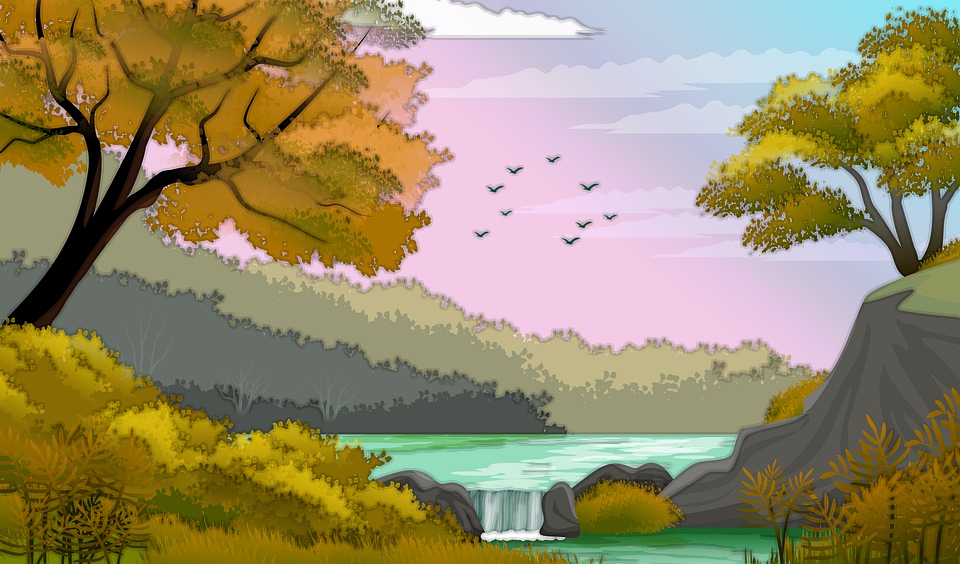
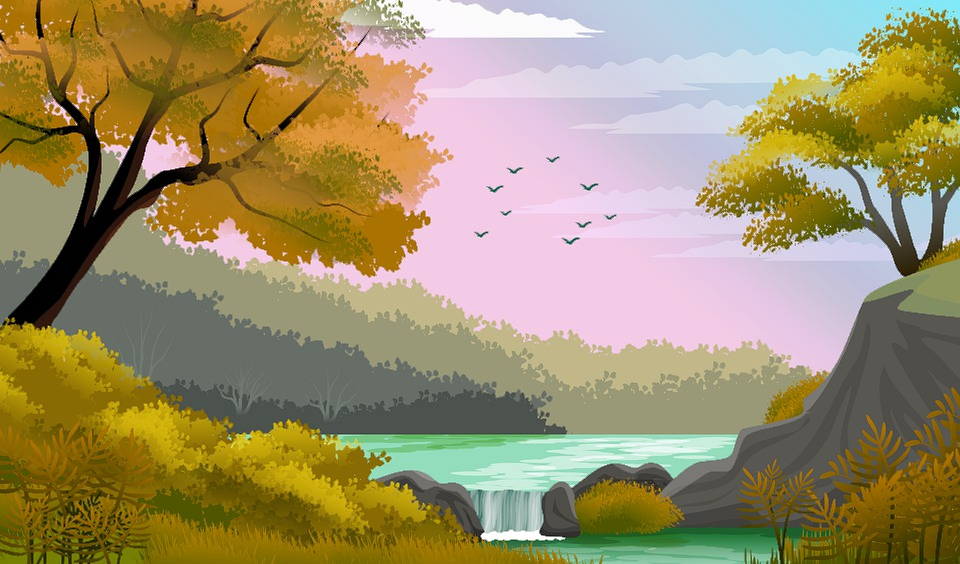
blur fix

diff --git a/AntiCopyBlur/EdgeBlur.py b/AntiCopyBlur/EdgeBlur.py
@@ -2,6 +2,7 @@ import cv2, os
 import numpy as np
 from cannyEdge import canny
 
+'''
 kernel2d = np.array([
     [0.9782436, 0.97248424, 0.97034105, 0.97248424, 0.9782436 ],
     [0.97248424, 0.98568037, 0.98314849, 0.98568037, 0.97248424],
@@ -9,8 +10,8 @@ kernel2d = np.array([
     [0.97248424, 0.98568037, 0.98314849, 0.98568037, 0.97248424],
     [0.9782436, 0.97248424, 0.97034105, 0.97248424, 0.9782436 ]
 ])
-
 kernel2d = np.array(kernel2d)
+'''
 
 path = os.getcwd()
 imgname = "forest"
@@ -19,17 +20,27 @@ canny(imgname)
 cannyimg = cv2.imread("{p}/images/canny_image/{ing}_canny.png".format(p=path, ing=imgname), cv2.IMREAD_GRAYSCALE)
 orig_img = cv2.imread("{p}/images/original_image/{ing}.png".format(p=path, ing=imgname))
 
-for x in range(0, cannyimg.shape[0]):
-    for y in range(0, cannyimg.shape[1]):
+for x in range(1, cannyimg.shape[0]-1):
+    for y in range(1, cannyimg.shape[1]-1):
         if cannyimg[x][y] == 255:
             
+            for p in range(3):
+                sum = 0
+
+                for i in range(3):
+                    for j in range(3):
+                        sum += orig_img[x+i-1][y+j-1][p] # 커널 만들어서 여따 곱해도 됨 근데 너무 느림
+                orig_img[x][y][p] = sum // 9
+
+            '''
             for tx in range(5):
                 for ty in range(5):
                     
                     for i in range(3):
                         if 0<=x+tx-2<cannyimg.shape[0] and 0<=y+ty-2<cannyimg.shape[1]:
                             orig_img[x+tx-2][y+ty-2][i] *= kernel2d[tx][ty]
-            
+            '''
+
 cv2.imwrite("{p}/images/edgeblur_image/{ing}_edgeblur.png".format(p=path, ing=imgname), orig_img)
 
 '''
